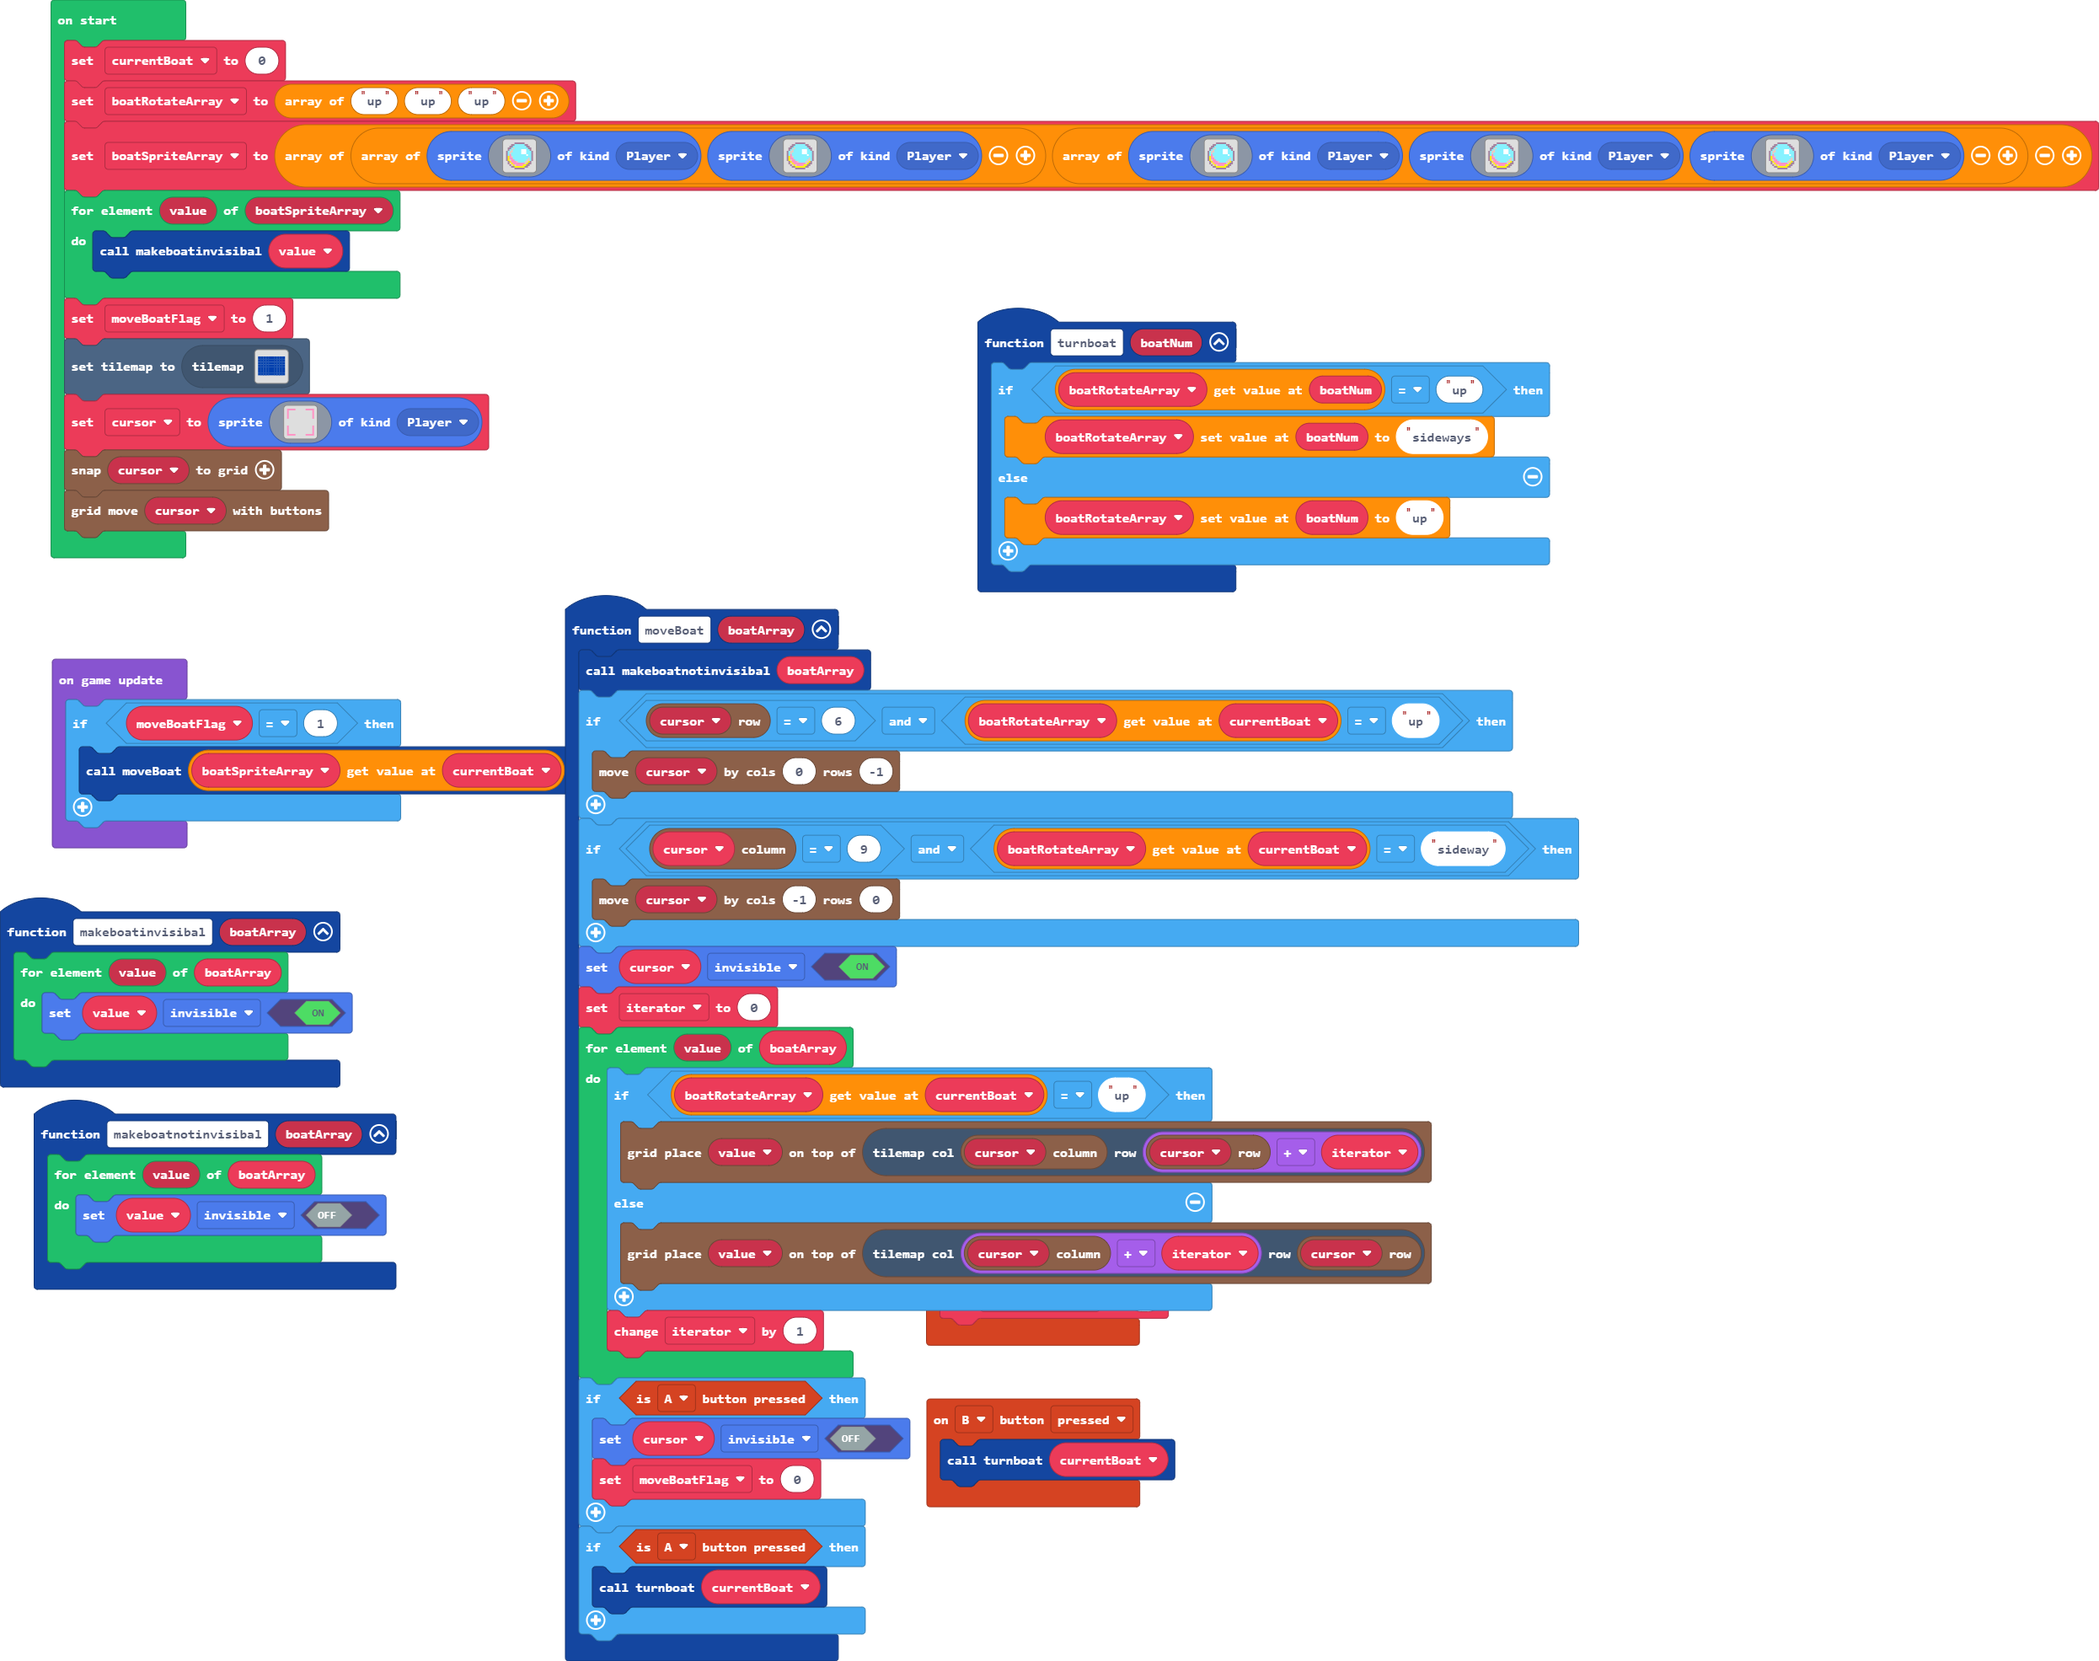
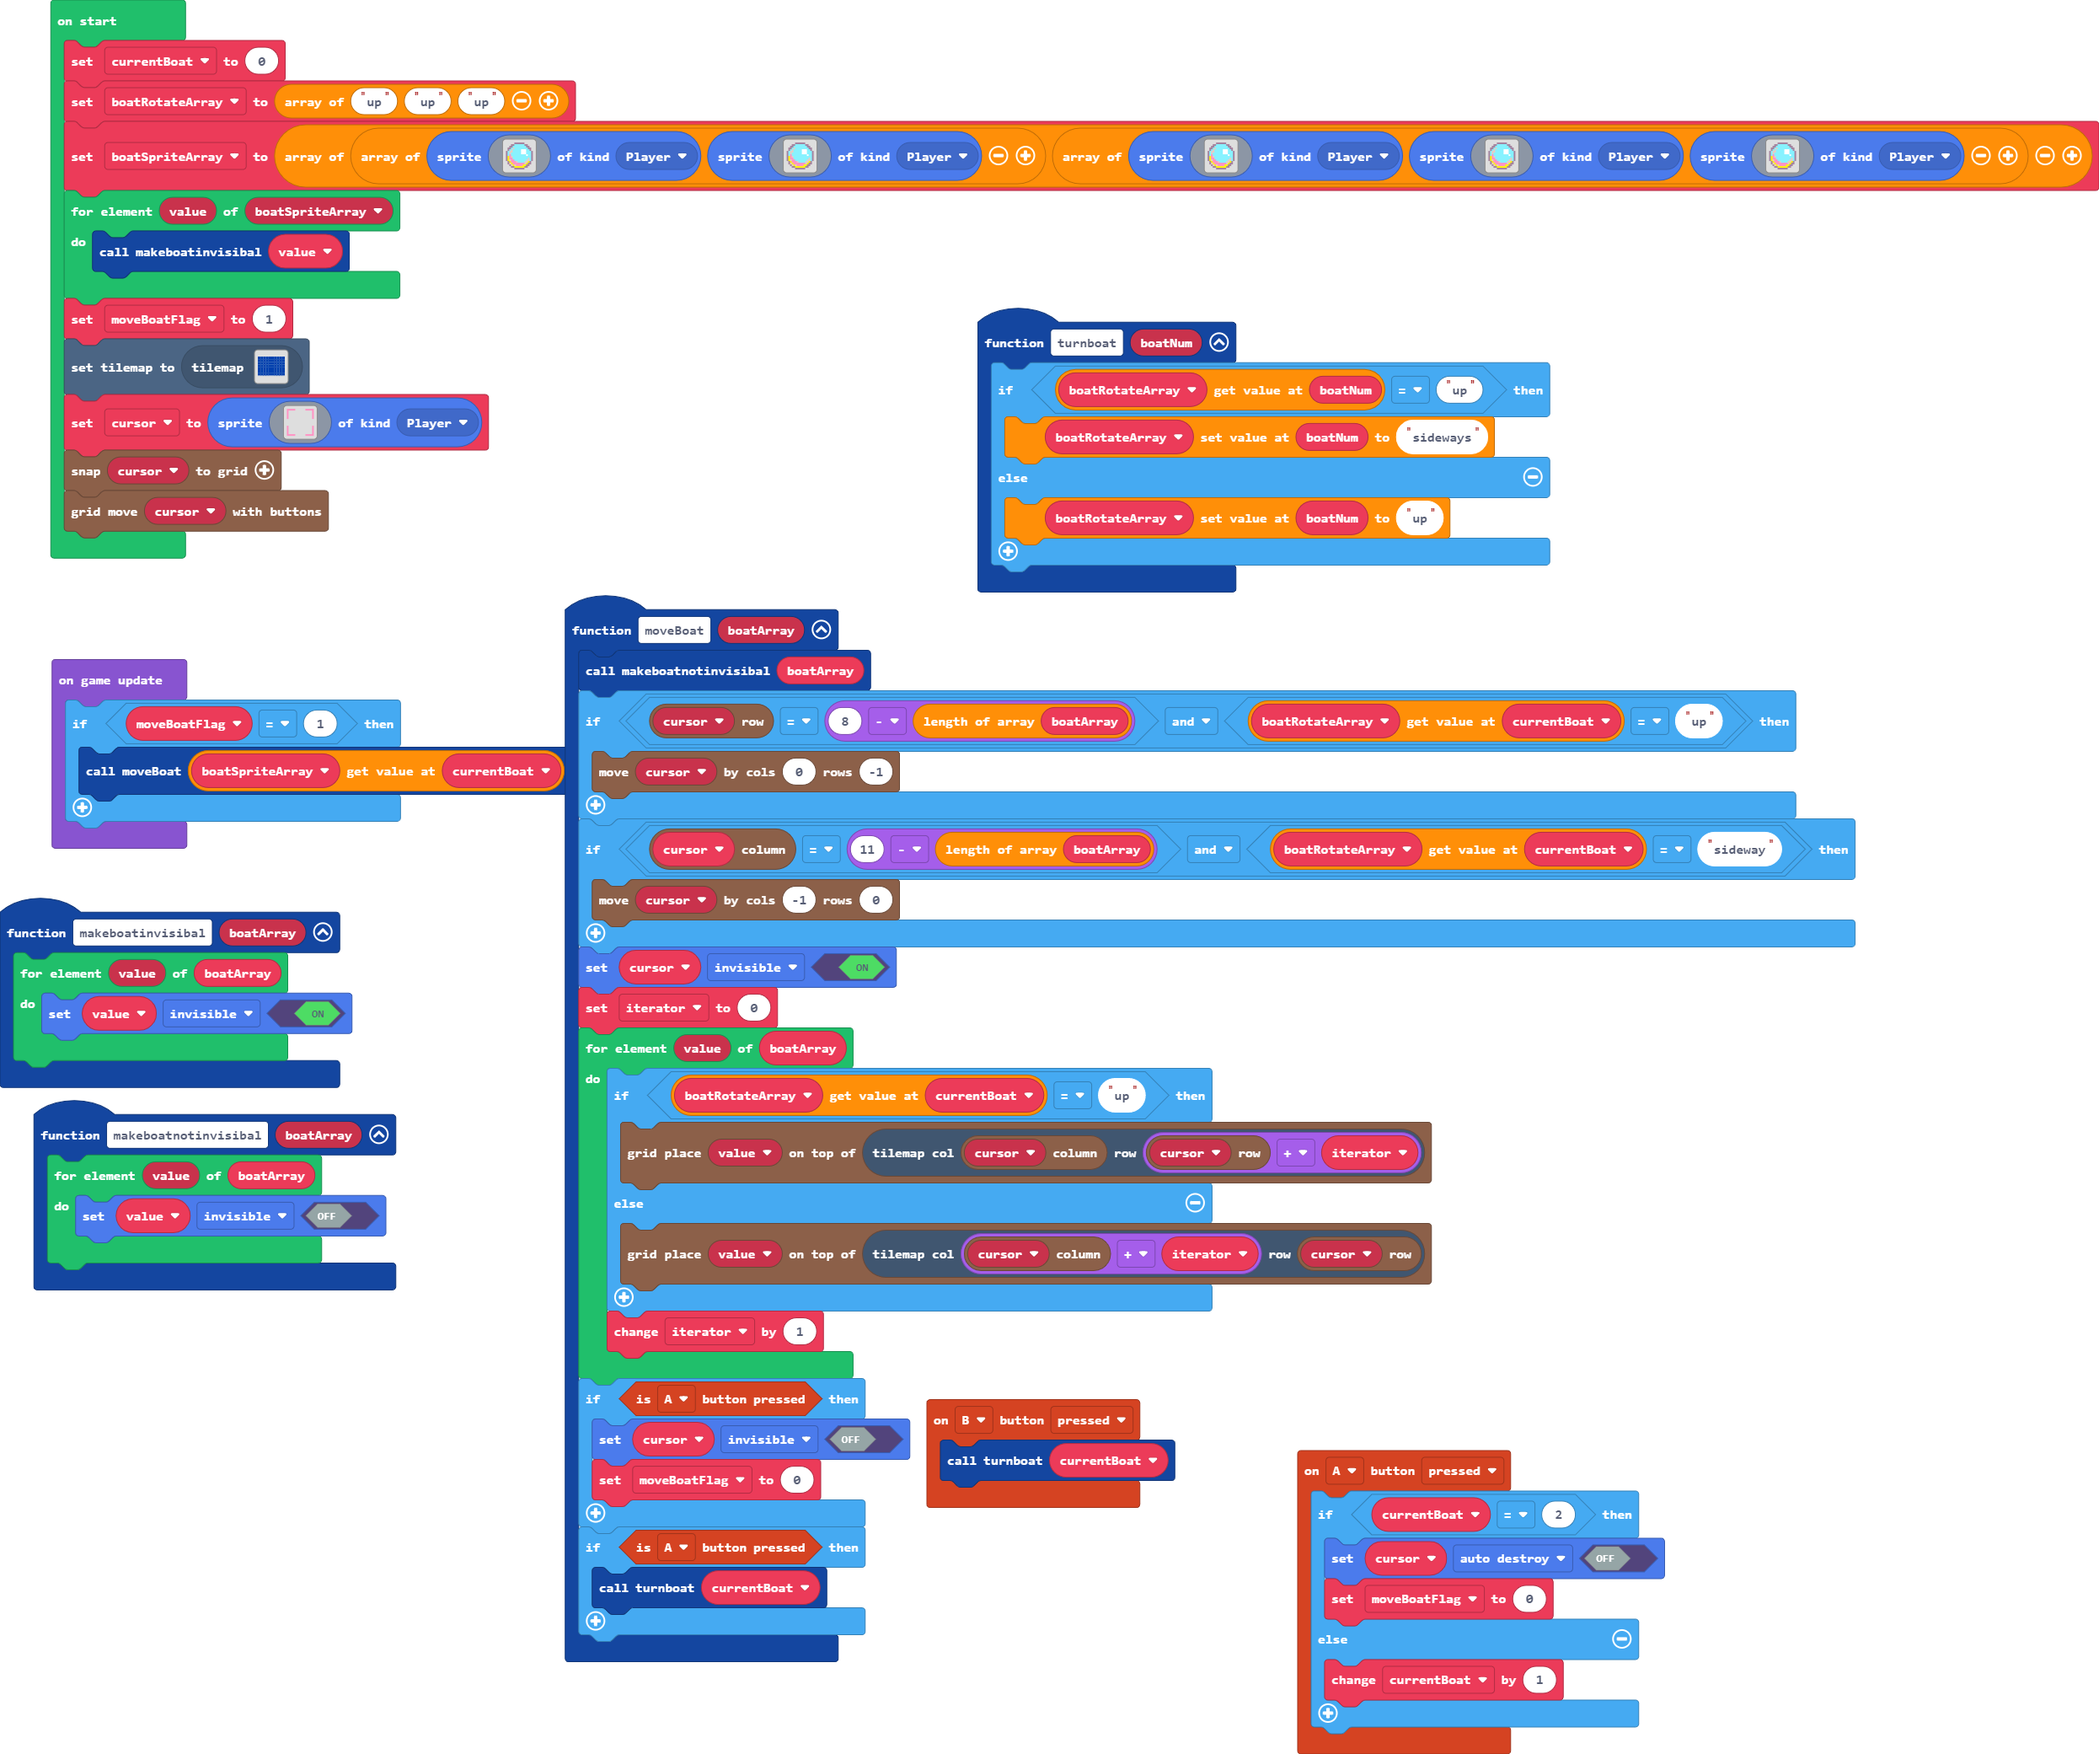
move the second moat

diff --git a/main.ts b/main.ts
@@ -2,8 +2,12 @@ controller.B.onEvent(ControllerButtonEvent.Pressed, function () {
     turnboat(currentBoat)
 })
 controller.A.onEvent(ControllerButtonEvent.Pressed, function () {
-    cursor.setFlag(SpriteFlag.AutoDestroy, false)
-    moveBoatFlag = 0
+    if (currentBoat == 2) {
+        cursor.setFlag(SpriteFlag.AutoDestroy, false)
+        moveBoatFlag = 0
+    } else {
+        currentBoat += 1
+    }
 })
 function makeboatinvisibal (boatArray: Sprite[]) {
     for (let value of boatArray) {
@@ -24,10 +28,10 @@ function turnboat (boatNum: number) {
 }
 function moveBoat (boatArray: any[]) {
     makeboatnotinvisibal(boatArray)
-    if (grid.spriteRow(cursor) == 6 && boatRotateArray[currentBoat] == "up") {
+    if (grid.spriteRow(cursor) == 8 - boatArray.length && boatRotateArray[currentBoat] == "up") {
         grid.move(cursor, 0, -1)
     }
-    if (grid.spriteCol(cursor) == 9 && boatRotateArray[currentBoat] == "sideway") {
+    if (grid.spriteCol(cursor) == 11 - boatArray.length && boatRotateArray[currentBoat] == "sideway") {
         grid.move(cursor, -1, 0)
     }
     cursor.setFlag(SpriteFlag.Invisible, true)
